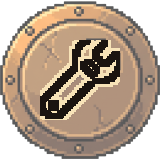
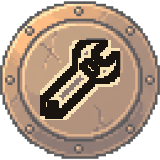
feat(art): the wrench cell re-shot — every stroke of every face clears 3:1
Owner decision 2026-08-31: re-shoot rather than accept attack stroke 2's
2.86:1. Two takes through fal-ai/nano-banana-pro/edit, $0.30, taking the
touch-UI figure to $0.75 of $5.

The cause was the prompt, not the draw. The plate asks for a glyph "deeply cut
and filled with dark shadow", and that interior shading is exactly what the
round-13 stroke split fragments into four sub-3:1 pieces. Re-rolling the same
prompt would have been $0.15 for another coin flip.

The EDIT endpoint, not the base model: FAL-MODELS.md section 2 records it as the
lever for identity consistency at the same $0.15 — vault 4.1, change the
reference not the wording. The five faces this one sits beside came from one
plate with one lighting decision, and a fresh text-to-image is a second
interpretation of "brass" next to them. Reference is the plate's own attack cell
at 682x682 via extractPlateCell. The endpoint defaults aspect_ratio to auto and
resolution to 1K; both set explicitly, since a non-square return is refused by
cutFace and would have burned a take.

Take 4 (01a05637) asked for a flat glyph and the model drew a HOLLOW OUTLINED
wrench — nine strokes, five under 3:1, worst 1.008:1 on a two-cell fragment.
Worse than what it replaced. The repair is one positive sentence per STYLE.md
section 6: the area inside the outline is filled with the same dark tone, so the
glyph is one solid silhouette. Seed 20260804 held constant across both, so the
[…]

diff --git a/tests/unit/shipped-touch-contrast.test.ts b/tests/unit/shipped-touch-contrast.test.ts
@@ -18,20 +18,25 @@ import { ART_ALPHA, ART_ALPHA_PRESSED } from '../../src/scenes/touchMarks';
 import { KEYS, TRUE_SIZE_PX, cutFace, shippedFace, strokeContrast } from './touchFaces';
 
 /**
- * The one stroke of the shipped six that does not reach 3:1, with the figure it does reach.
+ * ✅ **There is no shortfall table any more, and that is the re-shoot's result.**
  *
- * 🔴 **Not a waiver and not a threshold — a second, lower, MEASURED bound on a named stroke.**
- * Splitting `attack` by its pre-halo engraving separates four small fragments of the wrench's
- * shading from its two real strokes, and the smallest — an 11-pixel seed — measures **2.86:1**.
- * No parameter fixes it: `KEYLINE_PX` 4 leaves it at 2.86 and bolder makes it worse (3 → 1.93,
- * 4 → 1.37), because at 48 CSS px the fragment is about three output pixels of mostly dark.
+ * `KNOWN_SHORTFALL` stood here from round 13 until 2026-08-31, naming `touch-attack` stroke 2 at a
+ * measured **2.86:1** and pinning it at 2.8 so it could not quietly get worse. It was never a
+ * waiver: the wrench's own interior SHADING was fragmenting into four sub-3:1 pieces, no parameter
+ * reached them (`KEYLINE_PX` 4 left it at 2.86; `BOLD_PX` 3 and 4 made it 1.93 and 1.37), and
+ * inventing a minimum stroke size to exclude them would have been this file excusing more than
+ * 12.14 says.
  *
- * Inventing a minimum stroke size to exclude it would be this file requiring — or excusing — more
- * than 12.14 says, which CLAUDE.md § 3 calls a STOP-and-ask. So it is named, pinned so it cannot
- * quietly get worse, and recorded against 12.14 in `docs/qa/phase-12-touch.md` as a shortfall for
- * the owner to rule on: accept it, or re-shoot the wrench cell. Codex round-13.
+ * The owner chose the re-shoot. The cell was re-generated through `nano-banana-pro/edit` from the
+ * plate's own attack cell, with a prompt that asks for one solid filled silhouette instead of a
+ * glyph "deeply cut and filled with dark shadow" — see `promptTouch.mjs`'s `FLAT_GLYPH`. The face
+ * now splits into **three** strokes and every one reaches the same 3.32:1 / 3.85:1 as the other
+ * five.
+ *
+ * 🔴 **The table was deleted BEFORE the candidate was adopted, not after.** Its 2.8 floor would
+ * have let a 2.81 candidate pass the very gate that exists to decide whether the re-shoot worked.
+ * Named by the Codex plan review, round 2.
  */
-const KNOWN_SHORTFALL: Record<string, Record<number, number>> = { 'touch-attack': { 2: 2.8 } };
 
 describe('the shipped touch faces', () => {
   it('reaches the 3:1 contrast floor over EVERY background, on EVERY stroke', () => {
@@ -76,12 +81,10 @@ describe('the shipped touch faces', () => {
             surviving[c],
             `stroke ${c} of ${key} does not survive the downscale at all`,
           ).toBeGreaterThan(0);
-          const floor = KNOWN_SHORTFALL[key]?.[c] ?? 3;
           expect(
             worst[c],
-            `stroke ${c} of ${key} at alpha ${alpha} reaches only ${worst[c]!.toFixed(2)}:1 at ${TRUE_SIZE_PX} CSS px` +
-              (floor === 3 ? '' : ' — a recorded shortfall, and it has got worse'),
-          ).toBeGreaterThan(floor);
+            `stroke ${c} of ${key} at alpha ${alpha} reaches only ${worst[c]!.toFixed(2)}:1 at ${TRUE_SIZE_PX} CSS px`,
+          ).toBeGreaterThan(3);
         }
       }
     }

diff --git a/docs/qa/phase-12-touch.md b/docs/qa/phase-12-touch.md
@@ -35,7 +35,7 @@ says nothing, and a reader checks the summary first. Found by the Codex round-6 
 | 12.11 | Frame budget unregressed with the controls drawn | **NOT MET** | § 12.11. The statistic cannot order its own mutation. Replacement named. |
 | 12.12 | Controls hidden AND disabled whenever they must not be live | **PASS** | 12.12 taps all five coordinates; M8 red. |
 | 12.13 | A drag is not stolen by browser pan / pinch / zoom | **UNRUN — owner** | Hands-on *(C4)*. Cannot be closed any other way. |
-| 12.14 | The button art is readable at true size at the smallest viewport | **UNRUN — owner** | The generated faces ship now (take 3), so the criterion has a subject at last. § 12.14's four measured repairs still stand, but they measured the GREY BOX; the brass faces have not been through `ui-ux-tester`. Screenshot at iPhone SE landscape, chrome-reduced (667 × 325): `docs/evidence/phase-12-touch-art.png`, **recaptured after the round-11 bezel fade**. The measurable half now passes on the shipped bytes: **mark-masked contrast at TRUE ON-SCREEN SIZE: 3.32:1** at rest and **3.85:1** pressed, for all six, over every background luminance, against 1.4.11's 3:1. ⚠ **Two earlier versions of this row were false and both were caught by review.** The first cited 3.47:1 over the WHOLE FACE — `walk` passed on a decorative highlight while its own bars measured 1.12:1 (round 8). The second cited 3.64:1 on the mark but on 160 px SOURCE TEXELS; at the 48 CSS px the smallest in-scope viewport actually presents, a 3.3× downscale the canvas deliberately smooths, the 1 px keyline averaged away and the marks fell to 1.63–2.85:1 (round 9). The engraving is now thickened as well as keylined, both inside the mark region only, and the gate composites, box-filters to 48 px and measures there. Watched red at 2.43:1 flat (M46), at the mark alone (M51), and with the thickening removed (M55). ⚠ A third correction, from round 10: the gate rolled its OWN box filter, which partitioned the source differently from `resize.mjs` — it now measures through the shared `downscale`. ⚠ **And a fourth, from round 11, in two parts.** (a) The mark mask was discovered from the shipped file, so erasing the engraving and leaving two ink cells standing shrank the mask with the damage and still scored 3.09:1 — it comes from the committed cut face now (M60 red 3/8). (b) **This figure is a BOX-FILTER PROXY and is labelled as one.** The browser downscales the canvas with `image-rendering: auto` at a fractional scale; nothing here proves it uses `resize.mjs`'s deterministic box filter, so 3.32:1 is what a box filter at 48 px yields, not a measurement of the shipped pixels on a phone. ⚠ **And a fifth, from round 13, which found a shortfall in the ART.** Splitting the mark by its pre-halo engraving — the halo merges strokes it was meant to separate — isolates four small fragments of `attack`'s wrench shading from its two real strokes, and the smallest, an **11-pixel seed**, measures **2.86:1**, not 3. No parameter fixes it: `KEYLINE_PX` 4 leaves it at 2.86 and bolder makes it worse (`BOLD_PX` 3 → 1.93, 4 → 1.37), because at 48 CSS px that fragment is about three output pixels of mostly dark. **I did not invent a minimum stroke size to exclude it** — that would be a test excusing more than 12.14 says. It is named in `KNOWN_SHORTFALL`, pinned at 2.8 so it cannot quietly worsen, and put to you: **accept a 2.86:1 fragment of shading, or re-shoot the wrench cell** ($0.15, taking the touch-UI figure to $0.60 of $5). Every other stroke of every face is 3.32:1 at rest and 3.85:1 pressed. What remains — the proxy's fidelity, and whether a wrench READS as a wrench at 48 CSS px — is the agent's call under 12.14 and the owner's under 12.24. |
+| 12.14 | The button art is readable at true size at the smallest viewport | **NOT MET — the measurable half passes, the agent gate has not run** | The wrench cell was **re-shot** (owner decision 2026-08-31) and every stroke of all six faces now reaches **3.318:1** at rest and **3.846:1** pressed at 48 CSS px, over every background luminance, against 1.4.11's 3:1 — **with no exception table**: `KNOWN_SHORTFALL` is gone. Screenshot at iPhone SE landscape, chrome-reduced (667 × 325): `docs/evidence/phase-12-touch-art.png`, recaptured on the new bytes. ⚠ **The verdict is NOT MET, not PASS, because 12.14's owner is `ui-ux-tester` and that agent has not run two briefs against the new faces** *(A7)* — and *"ran" is never the same as "passed"*. ⚠ **The figure remains a BOX-FILTER PROXY and is labelled as one**: production hands the downscale to the browser (`image-rendering: auto` at a fractional canvas scale) and nothing here proves it uses `resize.mjs`'s box filter. Codex round-11, which withdrew the finding once the label stood. **Five earlier versions of this row were wrong and every one was caught by review** — see § 12.14's history below. |
 | 12.15 | `src/sim/` boundary intact, whole suite with Phaser uninstalled | **PASS** | § Regression evidence. |
 | 12.16 | Draw-path: a blanked body or a deleted consumer reds a behavioural gate | **PASS — one orphan deleted** | § 12.16. `touchTargetsDisjoint` had zero consumers. M10 red 2/25. |
 | 12.17 | Shipped bytes: PNGs, alpha, distinct **silhouettes**, own key | **NOT MET — owner decision needed** | Everything measurable passes on the shipped bytes (§ 12.17), but the criterion as written says **five** and **silhouettes**, and the shipped six deliberately share one round disc. § 12.17b. |
@@ -331,6 +331,41 @@ devices**, so this gate runs on the one platform the feature is absent from; the
 timing evidence anywhere in this repo.
 
 ### 12.14 — readability (`ui-ux-tester`)
+
+#### ✅ The re-shoot, and the five corrections that preceded it
+
+**Every figure this row has ever carried was wrong until the one it carries now, and review caught
+all five.** Kept because the sequence is the lesson, not the number:
+
+| round | the claim | why it was false |
+|---|---|---|
+| 8 | 3.47:1 over the WHOLE FACE | `walk` passed on a decorative highlight while its own bars measured **1.12:1** |
+| 9 | 3.64:1 on the mark | measured on 160 px SOURCE TEXELS; at the 48 CSS px the smallest viewport presents, the 1 px keyline averaged away and the marks fell to **1.63–2.85:1** |
+| 10 | — | the gate rolled its OWN box filter, partitioning the source differently from `resize.mjs`; it measures through the shared `downscale` now |
+| 11 | 3.32:1 | the mark mask was discovered from the SHIPPED file, so erasing the engraving and leaving two ink cells standing shrank the mask with the damage and still scored 3.09:1. It comes from the committed cut face now (M60 red 3/8) |
+| 13 | 3.32:1 for every stroke | the strokes were labelled on the FINISHED mask, so the halo merged the strokes it was meant to separate. Splitting by pre-halo seeds isolated four fragments of `attack`'s shading, the smallest at **2.86:1** (M67 red 1/1) |
+
+Round 13's split is what found a shortfall in the **art** rather than in a gate, and the owner chose
+the re-shoot over accepting it. The cause was the prompt — the plate asks for a glyph *"deeply cut
+and filled with dark shadow"*, and that shading is what fragments. Take 4 asked for a flat glyph and
+got a **hollow outlined** wrench: nine strokes, five under 3:1, the worst a two-cell fragment at
+**1.008:1**. Take 5 states the fill positively and produces **three** strokes, all at 3.318:1 /
+3.846:1. `docs/generations/phase-12-touch-plate.md` carries both `request_id`s and the full request
+contract; $0.75 of the $5 touch-UI ceiling.
+
+⚠ **`KNOWN_SHORTFALL` was deleted BEFORE the candidate was adopted.** Its 2.8 floor would otherwise
+have let a 2.81 candidate pass the very gate that exists to decide whether the re-shoot worked.
+
+⚠ **And the candidate was judged by the REAL battery, not a staged copy of part of it.** The plan
+called for a re-implemented validator against a temp directory; `shipped-touch.test.ts` enforces the
+two-sided alpha band, exact ink reproduction and six-way distinctness besides the contrast sweep, and
+a re-implemented subset would have validated the candidate against a different claim. The candidate
+was adopted into a committed tree and run through the whole suite, with `git checkout` as an exact
+rollback. **Exactly two files changed**; the other five faces are byte-identical, and `--adopt` still
+reproduces all six byte for byte because `TOUCH_CELL_SOURCES` records the new source.
+
+#### What the four original repairs measured, which was the GREY BOX
+
 
 Both briefs measured rather than judged, and four defects were **applied**.
 

diff --git a/docs/generations/phase-12-touch-plate.md b/docs/generations/phase-12-touch-plate.md
@@ -1,6 +1,6 @@
 # Phase 12 — the touch-control plate
 
-**3 generations · $0.45 of the `$5` touch-UI ceiling · `fal-ai/nano-banana-pro` · TAKE 3 ADOPTED.**
+**5 generations · $0.75 of the `$5` touch-UI ceiling. Takes 1-3 `fal-ai/nano-banana-pro` (TAKE 3 ADOPTED for five faces); takes 4-5 `fal-ai/nano-banana-pro/edit` (TAKE 5 ADOPTED for `touch-attack`).**
 
 One plate carrying every button face on a chroma field, cut locally into 160 × 160 PNGs by
 `tools/gen/buildTouchAtlas.mjs` (`npm run assets:touch`). Takes 1 and 2 are kept as evidence; **take
@@ -13,6 +13,8 @@ One plate carrying every button face on a chroma field, cut locally into 160 × 
 | 1 | `01a04e0b-ec39-7200-97bc-3afbd338ffeb` | `fal-ai/nano-banana-pro` | `20260804` | `aspect_ratio 1:1` · `resolution 2K` · `output_format png` · `num_images 1` | **2048 × 2048** | $0.15 | ❌ six buttons, 3 / 2 / 1 |
 | 2 | `01a04e0e-d45d-7ab2-be31-a7c2f479a495` | `fal-ai/nano-banana-pro` | `20260804` | same, prompt repaired | **2048 × 2048** | $0.15 | ❌ seven buttons, 3 / 2 / 2 |
 | 3 | `01a05115-d226-72b2-ae41-8998a11940cf` | `fal-ai/nano-banana-pro` | `20260804` | same, prompt rewritten for **six** faces | **2048 × 2048** | $0.15 | ✅ **ADOPTED** — nine buttons in a clean 3 × 3; the six asked for, plus a duplicate row |
+| 4 | `01a05637-d0d2-7a72-b1b1-0de17b5e53c7` | `fal-ai/nano-banana-pro/edit` | `20260804` | `image_urls` the plate's own attack cell · `aspect_ratio 1:1` · `resolution 2K` · `output_format png` · `num_images 1` · `limit_generations true` | **2048 × 2048** | $0.15 | ❌ a HOLLOW outlined wrench — 9 strokes, 5 under 3:1, worst **1.008:1** |
+| 5 | `01a0563a-bae1-7842-a283-2a633f440d49` | `fal-ai/nano-banana-pro/edit` | `20260804` | same, glyph fill stated positively | **2048 × 2048** | $0.15 | ✅ **ADOPTED** for `touch-attack` — 3 strokes, every one **3.318:1** / **3.846:1** |
 
 Files, prompts and job records: `_generated/phase-12-touch/`.
 
@@ -126,3 +128,64 @@ The walk plate went to the top **left** first — where the HUD portrait and gea
 `touchTargetsFit` measures the six controls against each other and knows nothing about the HUD, and
 all 28 touch e2e tests were green over the overlap. Found by taking a screenshot and looking at it.
 Moved beside pause at the top right.
+
+---
+
+## Takes 4 and 5 — the wrench cell, re-shot
+
+**Owner decision, 2026-08-31: re-shoot rather than accept.** The round-13 per-stroke split found
+`touch-attack` stroke 2 at **2.86:1** against 12.14's 3:1, pinned in `KNOWN_SHORTFALL` at 2.8 so it
+could not quietly worsen. No parameter reached it — `KEYLINE_PX` 4 left it at 2.86, `BOLD_PX` 3 and
+4 made it 1.93 and 1.37 — because at 48 CSS px the fragment is about three output pixels of mostly
+dark.
+
+### The cause was the prompt, not the draw
+
+Those four fragments are the wrench's own **interior shading**, and the plate prompt asks for
+exactly that: a glyph *"deeply cut and filled with dark shadow"*. Re-rolling the same prompt would
+have been $0.15 for another coin flip. So `touchButtonPrompt` composes its own glyph clause and
+`touch-prompt.test.ts` asserts the plate's shading sentence is absent from it — and still present in
+the plate prompt, so this is a difference rather than a sweep.
+
+### Why the EDIT endpoint
+
+`FAL-MODELS.md` § 2 records `nano-banana-pro/edit` as *"the lever for identity consistency"* at the
+**same $0.15** — vault 4.1, *change the reference, not the wording*. `promptTouch.mjs`'s own header
+says why that matters here: separately generated buttons give separately drifting interpretations of
+"brass", and these six sit next to each other on screen where a mismatch is the most visible failure
+available. The reference is the plate's own attack cell at **682 × 682**, produced by
+`extractPlateCell` — a seam this repository did not have, because every path to a plate cell went
+through `cutFace`, which resamples it to 160 px.
+
+⚠ **The endpoint defaults `aspect_ratio` to `auto`, not `1:1`**, and `resolution` to `1K`. Both are
+set explicitly; a non-square return is refused by `cutFace`'s aspect check, which would have burned
+a take for nothing. Re-read from `genmedia schema` before spending, per the standing rule.
+
+### Take 4 — a hollow wrench, and what it taught
+
+`request_id 01a05637-d0d2-7a72-b1b1-0de17b5e53c7`, $0.15. The prompt asked for *"a single continuous
+inlay of one flat uniform tone at one even depth"* and the model drew a wrench as a dark **outline**
+with the brass showing through it. That is worse than what it replaced: the contour, its notches and
+the rivets fragment into **nine** strokes, five of them under 3:1, the smallest a 2-cell fragment at
+**1.008:1**.
+
+The repair is one sentence, and it is positive rather than a negation (STYLE.md § 6): *"The whole
+area inside that outline is filled with the same dark tone as the outline itself, so the glyph is
+one solid dark silhouette and the brass of the button face shows only around it."* Seed held at
+`20260804` across both, so the difference is attributable to that sentence.
+
+### Take 5 — adopted
+
+`request_id 01a0563a-bae1-7842-a283-2a633f440d49`, $0.15. **Three strokes, all 3.318:1 at rest and
+3.846:1 pressed** — identical to the five faces that already passed. `KNOWN_SHORTFALL` was deleted
+**before** the candidate was adopted, so the battery that judged it required an unconditional 3:1;
+had it been deleted afterwards, a 2.81 candidate would have passed the gate that exists to decide
+whether the re-shoot worked.
+
+Adopted through `npm run assets:touch -- --cell=touch-attack --source=<take 5>`, which writes one
+key's cut fixture and shipped face and sweeps nothing. **Exactly two files changed**; the other five
+faces are byte-identical. `TOUCH_CELL_SOURCES` records the new source, and `--adopt` still
+reproduces all six byte for byte — without that entry it would recut take 3 and silently reinstate
+the superseded wrench.
+
+**Touch-UI figure: $0.75 of the $5 ceiling. $4.25 remains.**

diff --git a/docs/GENERATION-LOG.md b/docs/GENERATION-LOG.md
@@ -84,6 +84,7 @@ and nothing else moves.**
 
 | [generations/phase-06-hud.md](generations/phase-06-hud.md) | Phase 6 — the gear pickup, and the HUD re-shot on the user's decision. Both first takes, both adopted. The re-shoot came back **413 × 128 where the retired plate was 305 × 128**, and every constant measured off the old one was wrong the moment it landed | `fal-ai/nano-banana-pro` | 2 · $0.30 |
 | [generations/phase-12-touch-plate.md](generations/phase-12-touch-plate.md) | Phase 12 — the touch-control plate. **Three takes; take 3 ADOPTED**, `01a05115-d226-72b2-ae41-8998a11940cf`, six faces cut to `public/assets/ui/`. Takes 1 and 2 drew six buttons then seven, both times the model filling space the prompt left it — and the repair was not a prompt trick: the owner's walk/run control gave the grid a sixth REAL face, so there was no space to invent into. Take 3 still added a duplicate ROW (nine buttons in a clean 3×3), which cell-position mapping reads unambiguously. Settled that `nano-banana-pro` at `1:1`/`2K` returns **2048 × 2048** — previously UNMEASURED — confirming `2048 % 3 = 2` and that the centre-crop is load-bearing | `fal-ai/nano-banana-pro` | 3 · $0.45 |
+| [generations/phase-12-touch-plate.md](generations/phase-12-touch-plate.md) | Phase 12 — the wrench cell, **re-shot**. Two takes through the EDIT endpoint from the plate's own attack cell; **take 5 ADOPTED**, `01a0563a-bae1-7842-a283-2a633f440d49`. The round-13 stroke split had found `attack` stroke 2 at **2.86:1** against 12.14's 3:1, and the cause was the PROMPT: the plate asks for a glyph *"deeply cut and filled with dark shadow"*, and that interior shading is what fragments into four sub-3:1 pieces at 48 CSS px. Take 4 asked for a flat glyph and the model drew a **hollow outlined** wrench — nine strokes, five under 3:1, the worst at **1.008:1**. Take 5 states the fill positively (*the whole area inside that outline is filled with the same dark tone*) and produces **three** strokes, all at **3.318:1** at rest and **3.846:1** pressed — the same figures the other five faces reach. `nano-banana-pro/edit` is the identity-consistency lever (`FAL-MODELS.md` § 2, vault 4.1): the brass, bezel and patina come from the adopted plate rather than a second interpretation of "brass". Both takes measured **2048 × 2048** off the file. Seed `20260804` held constant across take and repair, so the change is attributable to the prompt and not to the draw | `fal-ai/nano-banana-pro/edit` | 2 · $0.30 |
 
 | [generations/session-gate.md](generations/session-gate.md) | The gate-entry session — the level exit. Take 1 was REFUSED by the keying gate for running flush off the bottom edge (5.5 % background on that row against 97.8/100/96.1); the gate was not weakened, the prompt gained a margin clause naming that edge, and take 2 keyed at a measured `(3,149,41)` — **not** the `(0,255,0)` asked for | `fal-ai/nano-banana-pro` | 2 · $0.30 |
 
